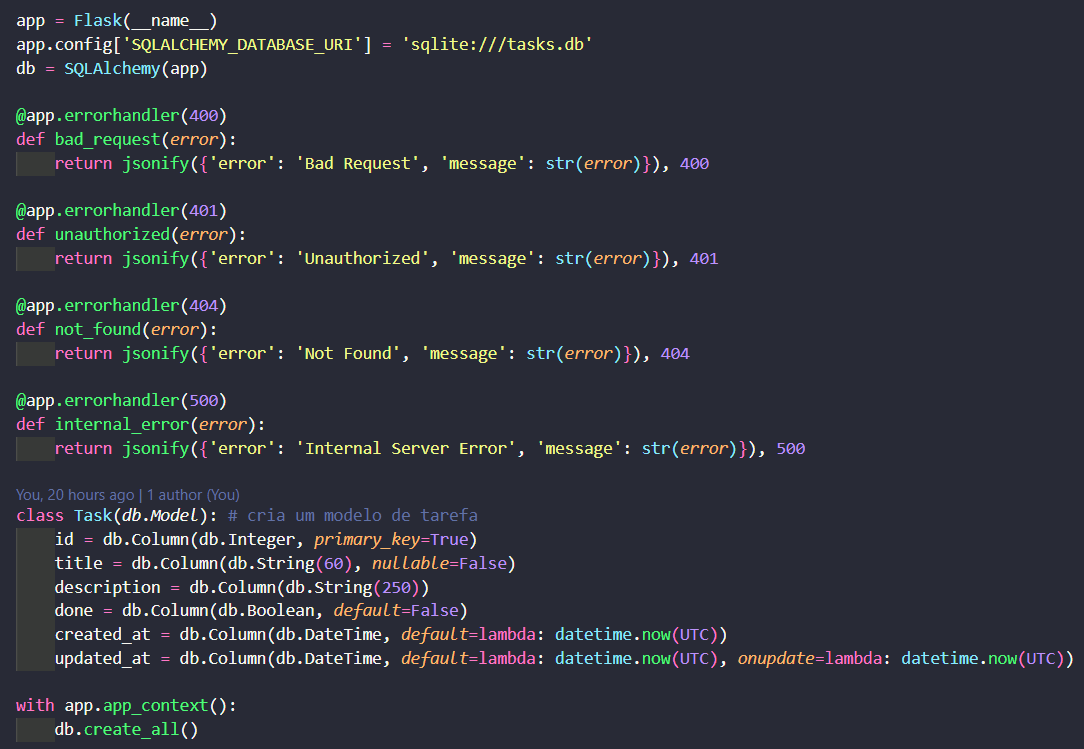
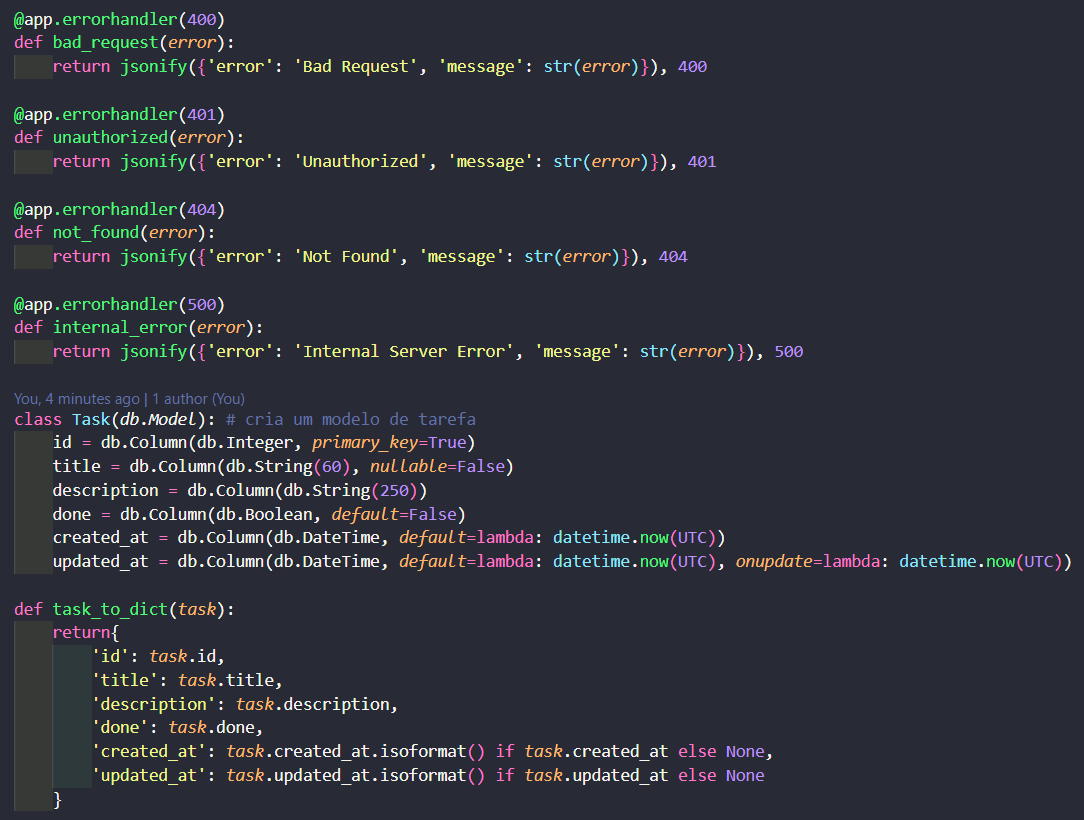
atualizando o README

diff --git a/scripts/app.py b/scripts/app.py
@@ -1,6 +1,5 @@
-from os import environ
+from os import environ # importando função necessária pra retornar o endpoint do PostgreSQL
 import jwt # importando a biblioteca do JSON Web Token
-from flask_restx import Api, Resource, fields
 from flask_sqlalchemy import SQLAlchemy # importando a função para usar banco de dados na API
 from flask import Flask, abort, request, jsonify # importando as funções necessárias do Flask para a API
 from functools import wraps # importando função para criar uma decorator
@@ -43,98 +42,6 @@ app.config['SQLALCHEMY_DATABASE_URI'] = environ.get(
     'postgresql://admin:admin123@localhost:5000/to_do_list'
 )
 db = SQLAlchemy(app)
-api = Api(app, title='To-do List API', description='Task management API')
-
-task_model = api.model('Task', {
-    'id': fields.Integer(readOnly=True),
-    'title': fields.String(required=True, max_length=60),
-    'description': fields.String(max_length=250),
-    'done': fields.Boolean,
-    'created_at': fields.String,
-    'updated_at': fields.String
-})
-
-@api.route('/tasks')
-class TaskListResource(Resource):
-    @api.doc('list_tasks')
-    @api.marshal_list_with(task_model)
-    def get(self):
-        page = request.args.get('page', 1, type=int)
-        per_page = 5
-        pagination = Task.query.paginate(page=page, per_page=per_page, error_out=False)
-        tasks = [task_to_dict(task) for task in pagination.items]
-        return jsonify({
-        'tasks': tasks,
-        'total': pagination.total,
-        'page': pagination.page,
-        'pages': pagination.pages,
-        'per_page': pagination.per_page
-        }), 200
-    
-    @api.doc('create_task')
-    @api.expect(task_model)
-    @api.marshal_with(task_model, code=201)
-    def post(self):
-        data = request.get_json()
-        if not data or 'title' not in data or not data['title'].strip():
-            return jsonify({'error': '"Title" field is required'}), 400
-        if len(data.get('title')) > 60:
-            return jsonify({'error': 'Title must not surpass 60 characters'}), 400
-        if len(data.get('description', '')) > 250:
-            return jsonify({'error': 'Description must not surpass 250 characters'}), 400
-        new_task = Task(
-            title=data['title'],
-            description=data.get('description', ''),
-            done=data.get('done', False)
-        )
-        db.session.add(new_task)
-        db.session.commit()
-        return jsonify({
-            'id': new_task.id,
-            'title': new_task.title,
-            'description': new_task.description,
-            'done': new_task.done,
-            'created_at': new_task.created_at
-        }), 201
-    
-@api.route('/tasks/<int:task_id>')
-class TaskResource(Resource):
-    @api.doc('update_task')
-    @api.expect(task_model)
-    @api.marshal_with(task_model)
-    def put(self, task_id):
-        task = db.session.get(Task, task_id)
-        if not task:
-            abort(404)
-        data = request.get_json()
-        if not data:
-            return jsonify({'error': 'Data was not provided'}), 400
-        if 'title' in data and not data['title'].strip():
-            return jsonify({'error': '"Title" field cannot be void'}), 400
-        if 'title' in data and len(data['title']) > 60:
-            return jsonify({'error': 'Title must not surpass 60 characters'}), 400
-        if 'description' in data and len(data['description']) > 250:
-            return jsonify({'error': 'Description must not surpass 250 characters'}), 400
-        task.title = data.get('title', task.title)
-        task.description = data.get('description', task.description)
-        task.done = data.get('done', task.done)
-        db.session.commit()
-        return jsonify({
-            'id': task.id,
-            'title': task.title,
-            'description': task.description,
-            'done': task.done,
-            'updated_at': task.updated_at
-        }), 200
-    
-    @api.doc('delete_task')
-    def delete(self, task_id):
-        task = db.session.get(Task, task_id)
-        if not task:
-            abort(404)
-        db.session.delete(task)
-        db.session.commit()
-        return ('', 204)
 
 @app.errorhandler(400)
 def bad_request(error):

diff --git a/README.md b/README.md
@@ -28,7 +28,7 @@ Após isso, o app é configurado:
 
 A variável "app" é o que define a existência do app Flask, e a variável "db" define o banco de dados.
 
-A decorator "@app.errorhandler" faz tratamento de erro, dependendo do erro que você quer achar. Nesse caso, fiz para bad request, não autorizado, não encontrado ou erro de servidor.
+A decorator "@app.errorhandler" faz tratamento de erro, dependendo do erro que deve se achar. Nesse caso, ocorre tratamento de erro para bad request, não autorizado, não encontrado ou erro de servidor.
 
 A classe "Task" define o modelo base pra todas as tarefas que forem criadas.<br>
 A chave primária é o ID, que é sempre um inteiro que se adiciona 1 a cada cadastro.<br>
@@ -36,6 +36,15 @@ O título não pode passar de 60 caracteres e PRECISA existir.<br>
 A descrição pode ter até 250 caracteres, mas não é obrigatória.<br>
 A variável "done" define se a tarefa foi concluída ou não, e é False por definição.<br>
 As variáveis "created_at" e "updated_at" se atualizam conforme a data em que uma criação ou atualização é feita no banco de dados.<br>
+
+A função "task_to_dict" recebe um parâmetro task, que representa a tarefa em si, e retorna em forma de dicionário os dados dessa tarefa: ID, título, descrição, marcador de feita e data de criação/atualização.<br>
+Essa função será útil para o método "GET", que irá retornar todas as tarefas existentes.
+
+Após isso, temos um bloco específico que reinicia o banco de dados a cada vez que a API sofre deploy:
+
+![Imagem appconfig 4](images/appconfig4.png)
+
+As funções "drop_all" e "create_all" irão deletar o banco existente e criar um novo, respectivamente.
 
 Após isso, temos cada função básica de consulta, que são criar, acessar, atualizar e deletar dados do banco de dados da API. Importante ressaltar que todas as funções de consulta serão acompanhadas de duas decorators: @app.route e @requires_auth.<br>
 A decorator @app.route define a URL em que cada função poderá ser chamada. EX.: http://127.0.0.1:5000/tasks, para "POST" e "GET". Para "PUT" e "DELETE", a mesma URL, só que adicionando "/" e o ID da tarefa.<br>
